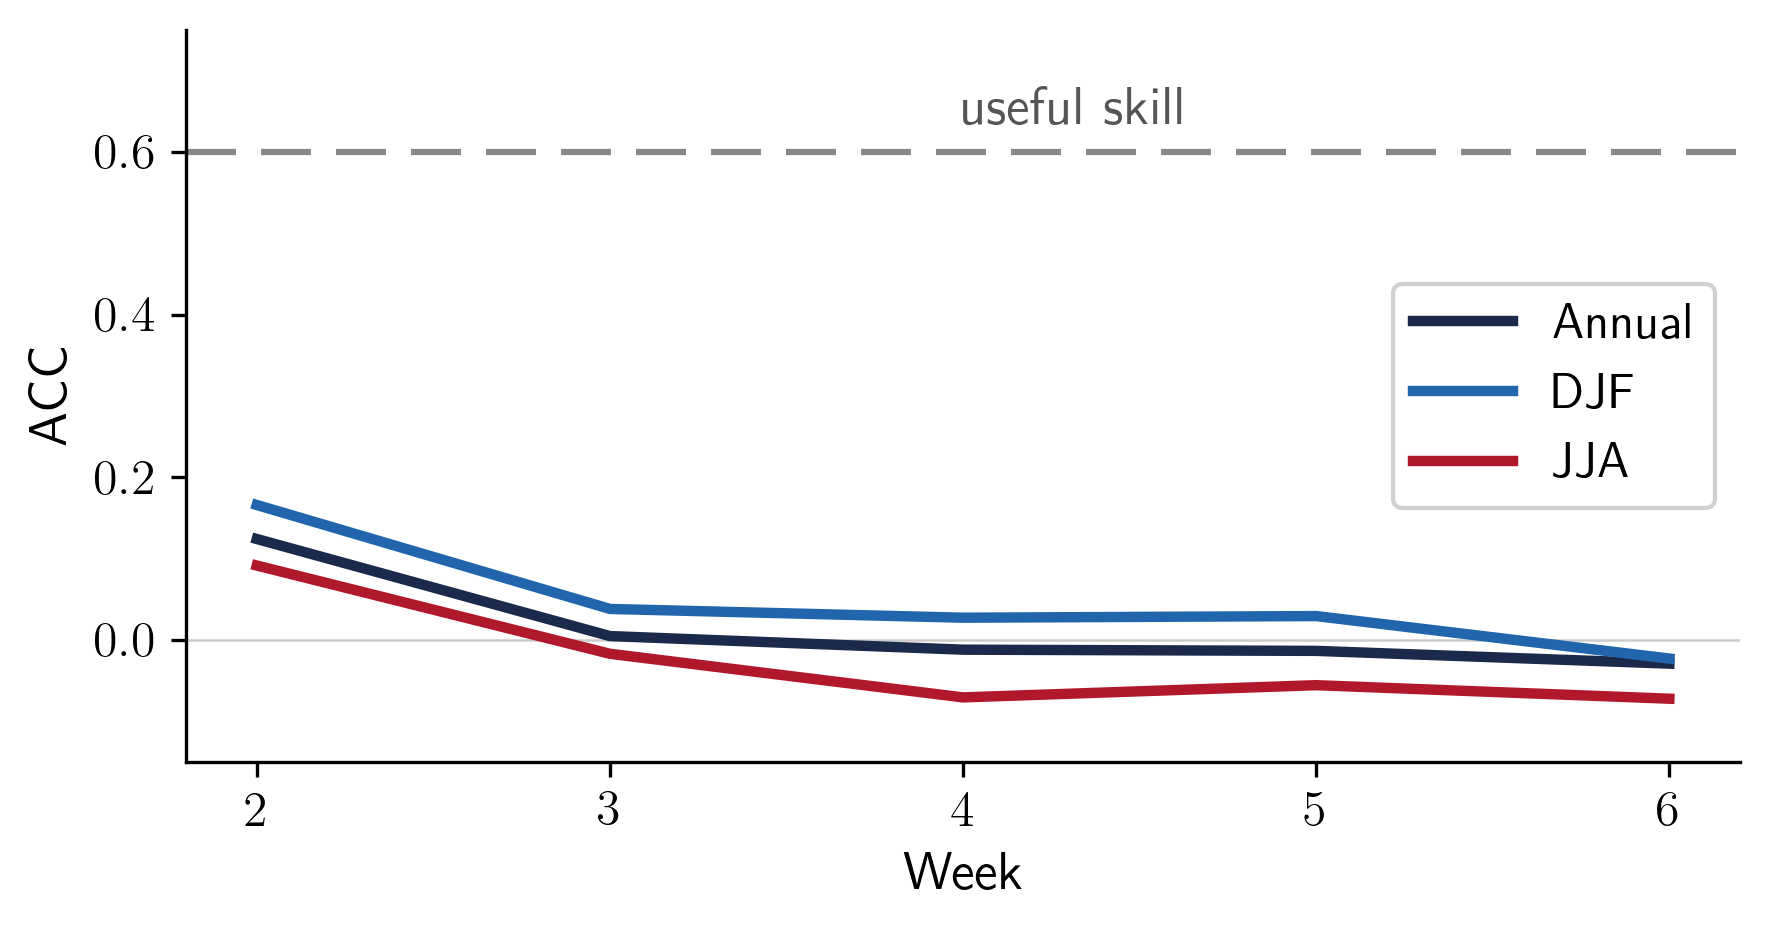
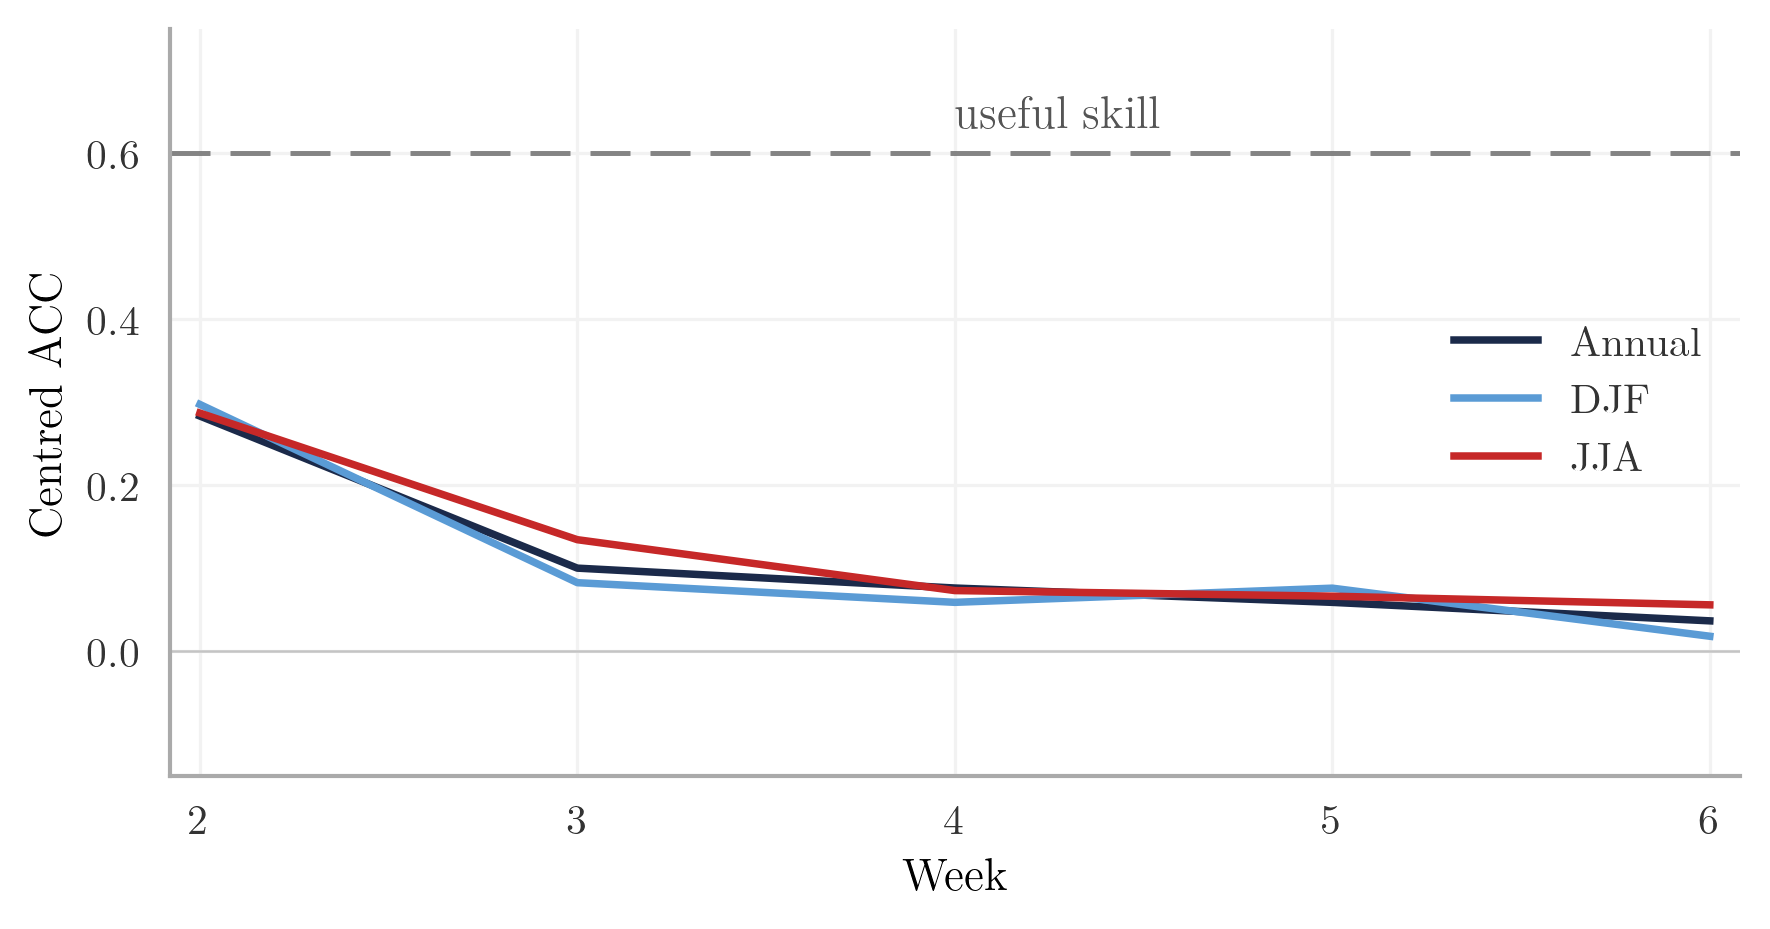
Restyle poster figures to match clean poster aesthetic and add TODONEXT
Remove markers, use thinner lines, frameless legends, dark red for JJA.
Fix white overlay lines on rank histogram bars. Add TODONEXT.md with
RMSE colourbar fixes, result interpretation, and caption review notes.

diff --git a/Research_Communication/Conferences/MetEireann_Symposium/poster/generate_poster_figures.py b/Research_Communication/Conferences/MetEireann_Symposium/poster/generate_poster_figures.py
@@ -88,8 +88,8 @@ FC_CLIM_PATH = (_REPO / "DATA" / "PROCESSED" / "SPATIAL_NATIVE" / "EEFH_O320"
 
 # Poster colours
 C_ANN = "#1B2A4A"   # posternavy
-C_DJF = "#4A90D9"   # blue
-C_JJA = "#E8943A"   # orange
+C_DJF = "#5A9BD5"   # blue
+C_JJA = "#C62828"   # dark red
 
 # earthkit map domain (cylindrical / PlateCarree)
 IRELAND_DOMAIN = [-10.8, -5.2, 51.2, 55.7]
@@ -392,27 +392,27 @@ def figure2_acc_leadtime(data, out_path):
     """Spatial (centred) ACC vs lead time — annual, DJF, JJA."""
     fig, ax = plt.subplots(figsize=(6.0, 3.2))
 
-    for label, color, marker in [
-        ("Annual", C_ANN, "o"),
-        ("DJF",    C_DJF, "s"),
-        ("JJA",    C_JJA, "D"),
+    for label, color in [
+        ("Annual", C_ANN),
+        ("DJF",    C_DJF),
+        ("JJA",    C_JJA),
     ]:
         vals = data.get(f"sacc_{label}")
         if vals is not None:
-            ax.plot(WEEK_NUMS, vals, "-", color=color, marker=marker,
-                    ms=7, lw=2.5, label=label, zorder=3)
+            ax.plot(WEEK_NUMS, vals, "-", color=color,
+                    lw=1.8, label=label, zorder=3)
 
-    ax.axhline(0.6, color="#555555", ls=(0, (8, 4)), lw=1.5, alpha=0.7, zorder=2)
-    ax.text(4.0, 0.62, "useful skill", fontsize=13,
+    ax.axhline(0.6, color="#555555", ls=(0, (8, 4)), lw=1.2, alpha=0.7, zorder=2)
+    ax.text(4.0, 0.62, "useful skill", fontsize=11,
             color="#555555", va="bottom", fontstyle="italic")
     ax.axhline(0, color="grey", ls="-", lw=0.6, alpha=0.4)
 
-    ax.set_xlabel("Week", fontsize=13)
-    ax.set_ylabel("Centred ACC", fontsize=13)
+    ax.set_xlabel("Week", fontsize=11)
+    ax.set_ylabel("Centred ACC", fontsize=11)
     ax.set_xticks(WEEK_NUMS)
     ax.set_ylim(-0.15, 0.75)
-    ax.tick_params(axis="both", labelsize=12)
-    ax.legend(loc="center right", framealpha=0.9, fontsize=12)
+    ax.tick_params(axis="both", labelsize=10)
+    ax.legend(loc="center right", frameon=False, fontsize=10)
     ax.spines["top"].set_visible(False)
     ax.spines["right"].set_visible(False)
 
@@ -428,24 +428,24 @@ def figure2b_bias_leadtime(data, out_path):
     """Domain-mean anomaly bias vs lead time — annual, DJF, JJA."""
     fig, ax = plt.subplots(figsize=(6.0, 3.2))
 
-    for label, color, marker in [
-        ("Annual", C_ANN, "o"),
-        ("DJF",    C_DJF, "s"),
-        ("JJA",    C_JJA, "D"),
+    for label, color in [
+        ("Annual", C_ANN),
+        ("DJF",    C_DJF),
+        ("JJA",    C_JJA),
     ]:
         vals = data.get(f"bias_{label}")
         if vals is not None:
-            ax.plot(WEEK_NUMS, vals, "-", color=color, marker=marker,
-                    ms=7, lw=2.5, label=label, zorder=3)
+            ax.plot(WEEK_NUMS, vals, "-", color=color,
+                    lw=1.8, label=label, zorder=3)
 
     ax.axhline(0, color="grey", ls="-", lw=0.6, alpha=0.4)
 
-    ax.set_xlabel("Week", fontsize=13)
-    ax.set_ylabel("Bias (\\textdegree C)", fontsize=13)
+    ax.set_xlabel("Week", fontsize=11)
+    ax.set_ylabel("Bias (\\textdegree C)", fontsize=11)
     ax.set_xticks(WEEK_NUMS)
     ax.set_xlim(WEEK_NUMS[0] - 0.3, WEEK_NUMS[-1] + 0.3)
-    ax.tick_params(axis="both", labelsize=12)
-    ax.legend(loc="best", framealpha=0.9, fontsize=12)
+    ax.tick_params(axis="both", labelsize=10)
+    ax.legend(loc="best", frameon=False, fontsize=10)
     ax.spines["top"].set_visible(False)
     ax.spines["right"].set_visible(False)
 
@@ -461,26 +461,26 @@ def figure3_crpss_leadtime(data, out_path):
     """Domain-mean CRPSS vs lead time — annual, DJF, JJA (no bias correction)."""
     fig, ax = plt.subplots(figsize=(6.0, 3.2))
 
-    for label, color, marker in [
-        ("Annual", C_ANN, "o"),
-        ("DJF",    C_DJF, "s"),
-        ("JJA",    C_JJA, "D"),
+    for label, color in [
+        ("Annual", C_ANN),
+        ("DJF",    C_DJF),
+        ("JJA",    C_JJA),
     ]:
         vals = data.get(f"crpss_{label}")
         if vals is not None:
-            ax.plot(WEEK_NUMS, vals, "-", color=color, marker=marker,
-                    ms=7, lw=2.5, label=label, zorder=3)
+            ax.plot(WEEK_NUMS, vals, "-", color=color,
+                    lw=1.8, label=label, zorder=3)
 
     ax.axhline(0, color="grey", ls="--", lw=0.8, alpha=0.7, zorder=1)
     ax.text(WEEK_NUMS[-1] + 0.25, 0.01, "climatology", fontsize=9,
             color="#555555", va="bottom", ha="right")
 
-    ax.set_xlabel("Week", fontsize=13)
-    ax.set_ylabel("CRPSS", fontsize=13)
+    ax.set_xlabel("Week", fontsize=11)
+    ax.set_ylabel("CRPSS", fontsize=11)
     ax.set_xticks(WEEK_NUMS)
     ax.set_xlim(WEEK_NUMS[0] - 0.3, WEEK_NUMS[-1] + 0.3)
-    ax.tick_params(axis="both", labelsize=12)
-    ax.legend(loc="upper right", framealpha=0.9, fontsize=12)
+    ax.tick_params(axis="both", labelsize=10)
+    ax.legend(loc="upper right", frameon=False, fontsize=10)
     ax.spines["top"].set_visible(False)
     ax.spines["right"].set_visible(False)
     ax.grid(axis="y", alpha=0.25, lw=0.5)
@@ -507,11 +507,11 @@ def figure4_rank_histogram(data, out_path):
 
     fig, ax = plt.subplots(figsize=(5.0, 2.8))
     ax.bar(np.arange(1, n_ranks + 1), counts / 1e3,
-           color="#E8943A", alpha=0.85, edgecolor="white", linewidth=0.4)
-    ax.axhline(uniform / 1e3, color="#555555", ls="--", lw=1.5, alpha=0.7)
+           color=C_JJA, alpha=0.85, edgecolor=C_JJA, linewidth=0.3)
+    ax.axhline(uniform / 1e3, color="#555555", ls="--", lw=1.2, alpha=0.7)
 
-    ax.set_xlabel("Rank", fontsize=12)
-    ax.set_ylabel("Count ($\\times 10^3$)", fontsize=12)
+    ax.set_xlabel("Rank", fontsize=11)
+    ax.set_ylabel("Count ($\\times 10^3$)", fontsize=11)
     ax.set_xticks([1, 4, 8, 12])
     ax.tick_params(axis="both", labelsize=10)
     ax.spines["top"].set_visible(False)

diff --git a/Research_Communication/Conferences/MetEireann_Symposium/poster/TODONEXT.md b/Research_Communication/Conferences/MetEireann_Symposium/poster/TODONEXT.md
@@ -1,0 +1,66 @@
+# Poster TODO
+
+## RMSE map fixes
+- [ ] Fix GRIB template metadata so earthkit colourbar reads "RMSE (°C)" instead of "Land-sea mask (dimensionless)"
+  - Options: (a) set `shortName` and `units` in eccodes before writing, or (b) overlay matplotlib text after earthkit renders
+- [ ] Clean up colourbar tick values — currently ugly decimals (0.9273, 1.055...). Use clean round values like 1.0, 1.2, 1.4, 1.6, 1.8, 2.0
+
+## Interpretation of results
+
+### ACC (centred, spatial pattern correlation)
+- All seasons start ~0.28–0.30 at week 2, decaying to 0.02–0.06 by week 6
+- None reach the 0.6 "useful skill" threshold at any lead
+- **JJA retains slightly more ACC than DJF at longer leads** (wk6: JJA=0.056 vs DJF=0.018) — opposite to what the green summary box currently claims ("DJF skill exceeds JJA")
+- Interpretation: spatial anomaly patterns are weakly predictable at wk2 but lose coherence rapidly. JJA persistence (soil moisture memory?) may sustain weak spatial correlations slightly longer
+
+### Anomaly bias (domain-mean, model-referenced fc minus ERA5-referenced obs)
+- **DJF has the largest residual anomaly bias (~0.2°C warm)**, roughly constant across leads
+- Annual and JJA are similar (~0.08°C warm), also flat across leads
+- The bias being flat with lead means it's a systematic offset between model and ERA5 climatologies, not a lead-dependent drift
+- This DJF warm bias is interesting — the green box currently mentions "JJA warm bias" which refers to the raw seasonal cycle (Fig. 2), not the anomaly bias. These are different quantities. Both can be mentioned but should be distinguished
+
+### Spatial anomaly RMSE
+- wk2: 1.39°C, wk4: 1.76°C, wk6: 1.79°C (domain means)
+- Rapid increase from wk2 to wk4, then plateau
+- The plateau suggests that beyond ~4 weeks the forecast anomaly errors approach the variability of the observed anomalies (i.e. approaching climatological RMSE)
+
+### Rank histogram (JJA, pooled wk2–6, raw values)
+- Strongly L-shaped: rank 1 has ~3.5× the count of a uniform distribution
+- Observations fall below all ensemble members far too often → ensemble is systematically too warm in JJA
+- This is consistent with the ~0.08°C JJA anomaly bias AND the known IFS JJA warm bias in raw temperature (Fig. 2)
+- Note: rank histogram uses raw values (rank is invariant to constant shift) — so it reflects both the climatological bias and any residual anomaly bias
+
+### Overall story
+The ECMWF sub-seasonal ensemble shows:
+1. **Modest but positive deterministic skill** (ACC > 0) through week 6, confirming forecasts outperform climatology for spatial temperature patterns over Ireland
+2. **Stronger probabilistic skill** in DJF than JJA (CRPSS: DJF stays ~0.28 at wk6, JJA drops to ~0 by wk6)
+3. **The ensemble is underdispersive in JJA** (L-shaped rank histogram), likely linked to known IFS limitations in soil moisture and land–atmosphere coupling [Hersbach et al. 2020]
+4. **A persistent DJF warm anomaly bias** (~0.2°C) that doesn't grow with lead — suggesting a systematic offset between model and reanalysis climatologies rather than forecast drift
+
+This motivates the Future Work items: probabilistic bias correction could address the JJA calibration issue, and comparison with SEAS5 seasonal forecasts would show whether longer-range systems have similar skill characteristics.
+
+## Figure captions — do they need updating?
+
+### Fig. 2 caption (seasonal cycle)
+> "Domain-mean 2 m temperature: forecast (weeks 2–6), ERA5, and Met Éireann observations."
+- **Fine as-is.** This is a raw temperature plot, caption is accurate.
+
+### Fig. 3 caption (ACC + bias)
+> "(a) Centred ACC and (b) anomaly bias by lead time and season."
+- **Check:** are ACC and bias actually shown as (a) and (b) subplots in a single figure, or are they separate PNGs? Currently `poster_fig_acc.png` is in the poster but `poster_fig_bias.png` is not referenced in poster.tex. Either:
+  - (a) Combine ACC and bias into a single 2-panel figure, OR
+  - (b) Add bias as a separate figure and update caption, OR
+  - (c) Drop bias from the poster and simplify caption to just "Centred ACC by lead time and season."
+
+### Fig. 4 caption (RMSE maps)
+> "Anomaly RMSE at weeks 2, 4, and 6 over Ireland (O320 grid)."
+- **Fine as-is** once the colourbar label is fixed.
+
+### Green summary box — needs updating
+Current text:
+1. "JJA warm bias is consistent with known IFS limitations in soil moisture and vegetation–atmosphere coupling [5]"
+2. "The forecast outperforms climatology to week 6; DJF skill exceeds JJA at early leads"
+
+Issues:
+- Point 1: Still valid for raw temperature (Fig. 2), but could be more precise about which bias (raw vs anomaly)
+- Point 2: "DJF skill exceeds JJA at early leads" — **not supported by ACC** (all seasons are similar at wk2). It IS supported by **CRPSS** (DJF=0.46 vs JJA=0.19 at wk2), but CRPSS isn't shown on the poster. Consider rewording to match what the displayed figures actually show.
